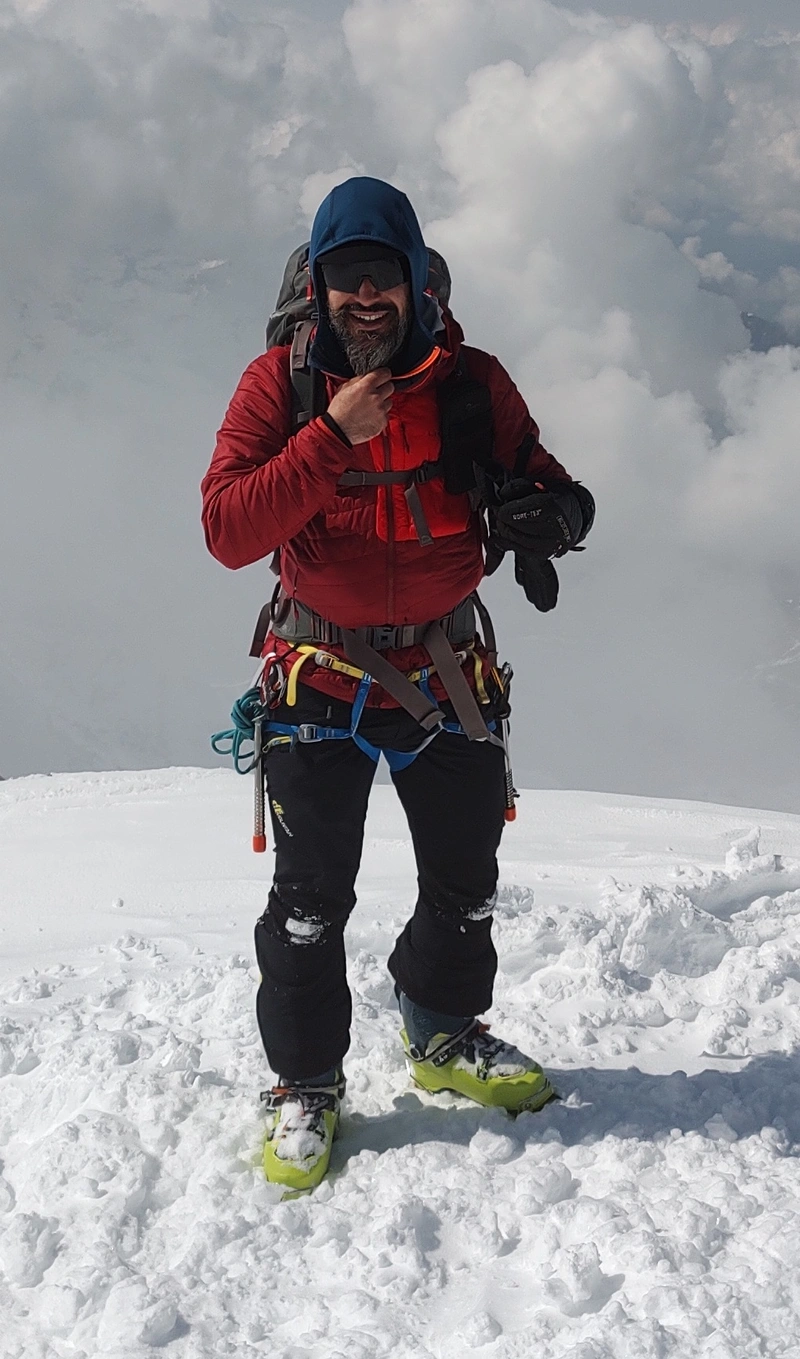
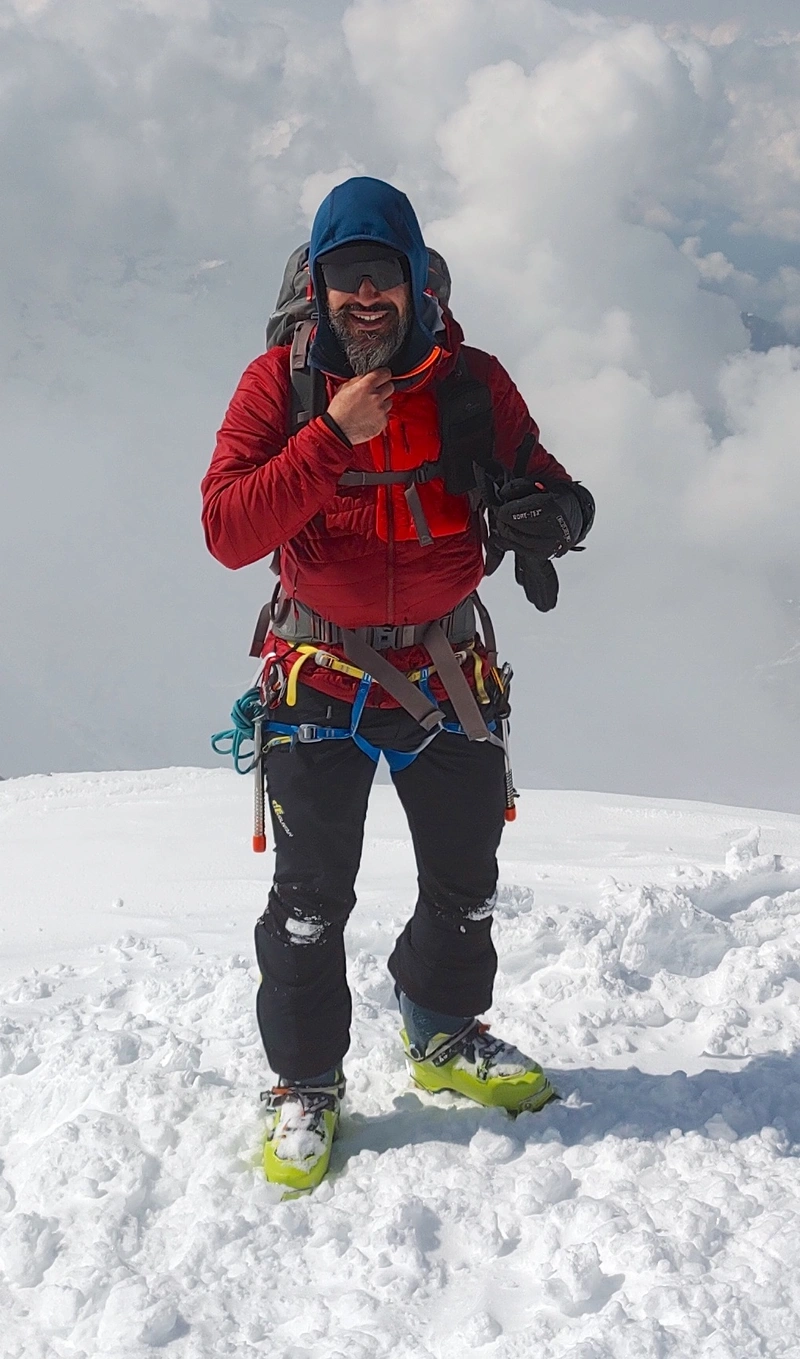
Deploying to gh-pages from @ simone-fontana/simone-fontana.github.io@bf8c994e7ba5ecb3e5e3a73f3e06d88853317a85 🚀

diff --git a/blog/2021/diagrams/index.html b/blog/2021/diagrams/index.html
@@ -153,8 +153,8 @@ sequenceDiagram
 </code></pre></div></div>
 
 <div class="jekyll-diagrams diagrams mermaid">
-  <svg id="mermaid-1686050083348" width="100%" xmlns="http://www.w3.org/2000/svg" height="100%" style="max-width:450px;" viewbox="-50 -10 450 231"><style>#mermaid-1686050083348 .label{font-family:trebuchet ms,verdana,arial;color:#333}#mermaid-1686050083348 .node circle,#mermaid-1686050083348 .node ellipse,#mermaid-1686050083348 .node polygon,#mermaid-1686050083348 .node rect{fill:#ececff;stroke:#9370db;stroke-width:1px}#mermaid-1686050083348 .node.clickable{cursor:pointer}#mermaid-1686050083348 .arrowheadPath{fill:#333}#mermaid-1686050083348 .edgePath .path{stroke:#333;stroke-width:1.5px}#mermaid-1686050083348 .edgeLabel{background-color:#e8e8e8}#mermaid-1686050083348 .cluster rect{fill:#ffffde!important;stroke:#aa3!important;stroke-width:1px!important}#mermaid-1686050083348 .cluster text{fill:#333}#mermaid-1686050083348 div.mermaidTooltip{position:absolute;text-align:center;max-width:200px;padding:2px;font-family:trebuchet ms,verdana,arial;font-size:12px;background:#ffffde;border:1px solid #aa3;border-radius:2px;pointer-events:none;z-index:100}#mermaid-1686050083348 .actor{stroke:#ccf;fill:#ececff}#mermaid-1686050083348 text.actor{fill:#000;stroke:none}#mermaid-1686050083348 .actor-line{stroke:grey}#mermaid-1686050083348 .messageLine0{marker-end:"url(#arrowhead)"}#mermaid-1686050083348 .messageLine0,#mermaid-1686050083348 .messageLine1{stroke-width:1.5;stroke-dasharray:"2 2";stroke:#333}#mermaid-1686050083348 #arrowhead{fill:#333}#mermaid-1686050083348 #crosshead path{fill:#333!important;stroke:#333!important}#mermaid-1686050083348 .messageText{fill:#333;stroke:none}#mermaid-1686050083348 .labelBox{stroke:#ccf;fill:#ececff}#mermaid-1686050083348 .labelText,#mermaid-1686050083348 .loopText{fill:#000;stroke:none}#mermaid-1686050083348 .loopLine{stroke-width:2;stroke-dasharray:"2 2";marker-end:"url(#arrowhead)";stroke:#ccf}#mermaid-1686050083348 .note{stroke:#aa3;fill:#fff5ad}#mermaid-1686050083348 .noteText{fill:#000;stroke:none;font-family:trebuchet ms,verdana,arial;font-size:14px}#mermaid-1686050083348 .section{stroke:none;opacity:.2}#mermaid-1686050083348 .section0{fill:rgba(102,102,255,.49)}#mermaid-1686050083348 .section2{fill:#fff400}#mermaid-1686050083348 .section1,#mermaid-1686050083348 .section3{fill:#fff;opacity:.2}#mermaid-1686050083348 .sectionTitle0,#mermaid-1686050083348 .sectionTitle1,#mermaid-1686050083348 .sectionTitle2,#mermaid-1686050083348 .sectionTitle3{fill:#333}#mermaid-1686050083348 .sectionTitle{text-anchor:start;font-size:11px;text-height:14px}#mermaid-1686050083348 .grid .tick{stroke:#d3d3d3;opacity:.3;shape-rendering:crispEdges}#mermaid-1686050083348 .grid path{stroke-width:0}#mermaid-1686050083348 .today{fill:none;stroke:red;stroke-width:2px}#mermaid-1686050083348 .task{stroke-width:2}#mermaid-1686050083348 .taskText{text-anchor:middle;font-size:11px}#mermaid-1686050083348 .taskTextOutsideRight{fill:#000;text-anchor:start;font-size:11px}#mermaid-1686050083348 .taskTextOutsideLeft{fill:#000;text-anchor:end;font-size:11px}#mermaid-1686050083348 .taskText0,#mermaid-1686050083348 .taskText1,#mermaid-1686050083348 .taskText2,#mermaid-1686050083348 .taskText3{fill:#fff}#mermaid-1686050083348 .task0,#mermaid-1686050083348 .task1,#mermaid-1686050083348 .task2,#mermaid-1686050083348 .task3{fill:#8a90dd;stroke:#534fbc}#mermaid-1686050083348 .taskTextOutside0,#mermaid-1686050083348 .taskTextOutside1,#mermaid-1686050083348 .taskTextOutside2,#mermaid-1686050083348 .taskTextOutside3{fill:#000}#mermaid-1686050083348 .active0,#mermaid-1686050083348 .active1,#mermaid-1686050083348 .active2,#mermaid-1686050083348 .active3{fill:#bfc7ff;stroke:#534fbc}#mermaid-1686050083348 .activeText0,#mermaid-1686050083348 .activeText1,#mermaid-1686050083348 .activeText2,#mermaid-1686050083348 .activeText3{fill:#000!important}#mermaid-1686050083348 .done0,#mermaid-1686050083348 .done1,#mermaid-1686050083348 .done2,#mermaid-1686050083348 .done3{stroke:grey;fill:#d3d3d3;stroke-width:2}#mermaid-1686050083348 .doneText0,#mermaid-1686050083348 .doneText1,#mermaid-1686050083348 .doneText2,#mermaid-1686050083348 .doneText3{fill:#000!important}#mermaid-1686050083348 .crit0,#mermaid-1686050083348 .crit1,#mermaid-1686050083348 .crit2,#mermaid-1686050083348 .crit3{stroke:#f88;fill:red;stroke-width:2}#mermaid-1686050083348 .activeCrit0,#mermaid-1686050083348 .activeCrit1,#mermaid-1686050083348 .activeCrit2,#mermaid-1686050083348 .activeCrit3{stroke:#f88;fill:#bfc7ff;stroke-width:2}#mermaid-1686050083348 .doneCrit0,#mermaid-1686050083348 .doneCrit1,#mermaid-1686050083348 .doneCrit2,#mermaid-1686050083348 .doneCrit3{stroke:#f88;fill:#d3d3d3;stroke-width:2;cursor:pointer;shape-rendering:crispEdges}#mermaid-1686050083348 .activeCritText0,#mermaid-1686050083348 .activeCritText1,#mermaid-1686050083348 .activeCritText2,#mermaid-1686050083348 .activeCritText3,#mermaid-1686050083348 .doneCritText0,#mermaid-1686050083348 .doneCritText1,#mermaid-1686050083348 .doneCritText2,#mermaid-1686050083348 .doneCritText3{fill:#000!important}#mermaid-1686050083348 .titleText{text-anchor:middle;font-size:18px;fill:#000}#mermaid-1686050083348 g.classGroup text{fill:#9370db;stroke:none;font-family:trebuchet ms,verdana,arial;font-size:10px}#mermaid-1686050083348 g.classGroup rect{fill:#ececff;stroke:#9370db}#mermaid-1686050083348 g.classGroup line{stroke:#9370db;stroke-width:1}#mermaid-1686050083348 .classLabel .box{stroke:none;stroke-width:0;fill:#ececff;opacity:.5}#mermaid-1686050083348 .classLabel .label{fill:#9370db;font-size:10px}#mermaid-1686050083348 .relation{stroke:#9370db;stroke-width:1;fill:none}#mermaid-1686050083348 #compositionEnd,#mermaid-1686050083348 #compositionStart{fill:#9370db;stroke:#9370db;stroke-width:1}#mermaid-1686050083348 #aggregationEnd,#mermaid-1686050083348 #aggregationStart{fill:#ececff;stroke:#9370db;stroke-width:1}#mermaid-1686050083348 #dependencyEnd,#mermaid-1686050083348 #dependencyStart,#mermaid-1686050083348 #extensionEnd,#mermaid-1686050083348 #extensionStart{fill:#9370db;stroke:#9370db;stroke-width:1}#mermaid-1686050083348 .branch-label,#mermaid-1686050083348 .commit-id,#mermaid-1686050083348 .commit-msg{fill:#d3d3d3;color:#d3d3d3}</style>
-<style>#mermaid-1686050083348 {
+  <svg id="mermaid-1686050276737" width="100%" xmlns="http://www.w3.org/2000/svg" height="100%" style="max-width:450px;" viewbox="-50 -10 450 231"><style>#mermaid-1686050276737 .label{font-family:trebuchet ms,verdana,arial;color:#333}#mermaid-1686050276737 .node circle,#mermaid-1686050276737 .node ellipse,#mermaid-1686050276737 .node polygon,#mermaid-1686050276737 .node rect{fill:#ececff;stroke:#9370db;stroke-width:1px}#mermaid-1686050276737 .node.clickable{cursor:pointer}#mermaid-1686050276737 .arrowheadPath{fill:#333}#mermaid-1686050276737 .edgePath .path{stroke:#333;stroke-width:1.5px}#mermaid-1686050276737 .edgeLabel{background-color:#e8e8e8}#mermaid-1686050276737 .cluster rect{fill:#ffffde!important;stroke:#aa3!important;stroke-width:1px!important}#mermaid-1686050276737 .cluster text{fill:#333}#mermaid-1686050276737 div.mermaidTooltip{position:absolute;text-align:center;max-width:200px;padding:2px;font-family:trebuchet ms,verdana,arial;font-size:12px;background:#ffffde;border:1px solid #aa3;border-radius:2px;pointer-events:none;z-index:100}#mermaid-1686050276737 .actor{stroke:#ccf;fill:#ececff}#mermaid-1686050276737 text.actor{fill:#000;stroke:none}#mermaid-1686050276737 .actor-line{stroke:grey}#mermaid-1686050276737 .messageLine0{marker-end:"url(#arrowhead)"}#mermaid-1686050276737 .messageLine0,#mermaid-1686050276737 .messageLine1{stroke-width:1.5;stroke-dasharray:"2 2";stroke:#333}#mermaid-1686050276737 #arrowhead{fill:#333}#mermaid-1686050276737 #crosshead path{fill:#333!important;stroke:#333!important}#mermaid-1686050276737 .messageText{fill:#333;stroke:none}#mermaid-1686050276737 .labelBox{stroke:#ccf;fill:#ececff}#mermaid-1686050276737 .labelText,#mermaid-1686050276737 .loopText{fill:#000;stroke:none}#mermaid-1686050276737 .loopLine{stroke-width:2;stroke-dasharray:"2 2";marker-end:"url(#arrowhead)";stroke:#ccf}#mermaid-1686050276737 .note{stroke:#aa3;fill:#fff5ad}#mermaid-1686050276737 .noteText{fill:#000;stroke:none;font-family:trebuchet ms,verdana,arial;font-size:14px}#mermaid-1686050276737 .section{stroke:none;opacity:.2}#mermaid-1686050276737 .section0{fill:rgba(102,102,255,.49)}#mermaid-1686050276737 .section2{fill:#fff400}#mermaid-1686050276737 .section1,#mermaid-1686050276737 .section3{fill:#fff;opacity:.2}#mermaid-1686050276737 .sectionTitle0,#mermaid-1686050276737 .sectionTitle1,#mermaid-1686050276737 .sectionTitle2,#mermaid-1686050276737 .sectionTitle3{fill:#333}#mermaid-1686050276737 .sectionTitle{text-anchor:start;font-size:11px;text-height:14px}#mermaid-1686050276737 .grid .tick{stroke:#d3d3d3;opacity:.3;shape-rendering:crispEdges}#mermaid-1686050276737 .grid path{stroke-width:0}#mermaid-1686050276737 .today{fill:none;stroke:red;stroke-width:2px}#mermaid-1686050276737 .task{stroke-width:2}#mermaid-1686050276737 .taskText{text-anchor:middle;font-size:11px}#mermaid-1686050276737 .taskTextOutsideRight{fill:#000;text-anchor:start;font-size:11px}#mermaid-1686050276737 .taskTextOutsideLeft{fill:#000;text-anchor:end;font-size:11px}#mermaid-1686050276737 .taskText0,#mermaid-1686050276737 .taskText1,#mermaid-1686050276737 .taskText2,#mermaid-1686050276737 .taskText3{fill:#fff}#mermaid-1686050276737 .task0,#mermaid-1686050276737 .task1,#mermaid-1686050276737 .task2,#mermaid-1686050276737 .task3{fill:#8a90dd;stroke:#534fbc}#mermaid-1686050276737 .taskTextOutside0,#mermaid-1686050276737 .taskTextOutside1,#mermaid-1686050276737 .taskTextOutside2,#mermaid-1686050276737 .taskTextOutside3{fill:#000}#mermaid-1686050276737 .active0,#mermaid-1686050276737 .active1,#mermaid-1686050276737 .active2,#mermaid-1686050276737 .active3{fill:#bfc7ff;stroke:#534fbc}#mermaid-1686050276737 .activeText0,#mermaid-1686050276737 .activeText1,#mermaid-1686050276737 .activeText2,#mermaid-1686050276737 .activeText3{fill:#000!important}#mermaid-1686050276737 .done0,#mermaid-1686050276737 .done1,#mermaid-1686050276737 .done2,#mermaid-1686050276737 .done3{stroke:grey;fill:#d3d3d3;stroke-width:2}#mermaid-1686050276737 .doneText0,#mermaid-1686050276737 .doneText1,#mermaid-1686050276737 .doneText2,#mermaid-1686050276737 .doneText3{fill:#000!important}#mermaid-1686050276737 .crit0,#mermaid-1686050276737 .crit1,#mermaid-1686050276737 .crit2,#mermaid-1686050276737 .crit3{stroke:#f88;fill:red;stroke-width:2}#mermaid-1686050276737 .activeCrit0,#mermaid-1686050276737 .activeCrit1,#mermaid-1686050276737 .activeCrit2,#mermaid-1686050276737 .activeCrit3{stroke:#f88;fill:#bfc7ff;stroke-width:2}#mermaid-1686050276737 .doneCrit0,#mermaid-1686050276737 .doneCrit1,#mermaid-1686050276737 .doneCrit2,#mermaid-1686050276737 .doneCrit3{stroke:#f88;fill:#d3d3d3;stroke-width:2;cursor:pointer;shape-rendering:crispEdges}#mermaid-1686050276737 .activeCritText0,#mermaid-1686050276737 .activeCritText1,#mermaid-1686050276737 .activeCritText2,#mermaid-1686050276737 .activeCritText3,#mermaid-1686050276737 .doneCritText0,#mermaid-1686050276737 .doneCritText1,#mermaid-1686050276737 .doneCritText2,#mermaid-1686050276737 .doneCritText3{fill:#000!important}#mermaid-1686050276737 .titleText{text-anchor:middle;font-size:18px;fill:#000}#mermaid-1686050276737 g.classGroup text{fill:#9370db;stroke:none;font-family:trebuchet ms,verdana,arial;font-size:10px}#mermaid-1686050276737 g.classGroup rect{fill:#ececff;stroke:#9370db}#mermaid-1686050276737 g.classGroup line{stroke:#9370db;stroke-width:1}#mermaid-1686050276737 .classLabel .box{stroke:none;stroke-width:0;fill:#ececff;opacity:.5}#mermaid-1686050276737 .classLabel .label{fill:#9370db;font-size:10px}#mermaid-1686050276737 .relation{stroke:#9370db;stroke-width:1;fill:none}#mermaid-1686050276737 #compositionEnd,#mermaid-1686050276737 #compositionStart{fill:#9370db;stroke:#9370db;stroke-width:1}#mermaid-1686050276737 #aggregationEnd,#mermaid-1686050276737 #aggregationStart{fill:#ececff;stroke:#9370db;stroke-width:1}#mermaid-1686050276737 #dependencyEnd,#mermaid-1686050276737 #dependencyStart,#mermaid-1686050276737 #extensionEnd,#mermaid-1686050276737 #extensionStart{fill:#9370db;stroke:#9370db;stroke-width:1}#mermaid-1686050276737 .branch-label,#mermaid-1686050276737 .commit-id,#mermaid-1686050276737 .commit-msg{fill:#d3d3d3;color:#d3d3d3}</style>
+<style>#mermaid-1686050276737 {
     color: rgb(0, 0, 0);
     font: normal normal 400 normal 16px / normal "Times New Roman";
   }</style>

diff --git a/index.html b/index.html
@@ -129,13 +129,13 @@
 
   <picture>
     
-    <source class="responsive-img-srcset" media="(max-width: 480px)" srcset="/assets/img/me2-480.webp"></source>
-    <source class="responsive-img-srcset" media="(max-width: 800px)" srcset="/assets/img/me2-800.webp"></source>
-    <source class="responsive-img-srcset" media="(max-width: 1400px)" srcset="/assets/img/me2-1400.webp"></source>
+    <source class="responsive-img-srcset" media="(max-width: 480px)" srcset="/assets/img/me-480.webp"></source>
+    <source class="responsive-img-srcset" media="(max-width: 800px)" srcset="/assets/img/me-800.webp"></source>
+    <source class="responsive-img-srcset" media="(max-width: 1400px)" srcset="/assets/img/me-1400.webp"></source>
     
 
     <!-- Fallback to the original file -->
-    <img src="/assets/img/me2.jpg" class="img-fluid z-depth-1 rounded" width="auto" height="auto" alt="me2.jpg" onerror="this.onerror=null; $('.responsive-img-srcset').remove();">
+    <img src="/assets/img/me.jpg" class="img-fluid z-depth-1 rounded" width="auto" height="auto" alt="me.jpg" onerror="this.onerror=null; $('.responsive-img-srcset').remove();">
 
   </picture>
 
